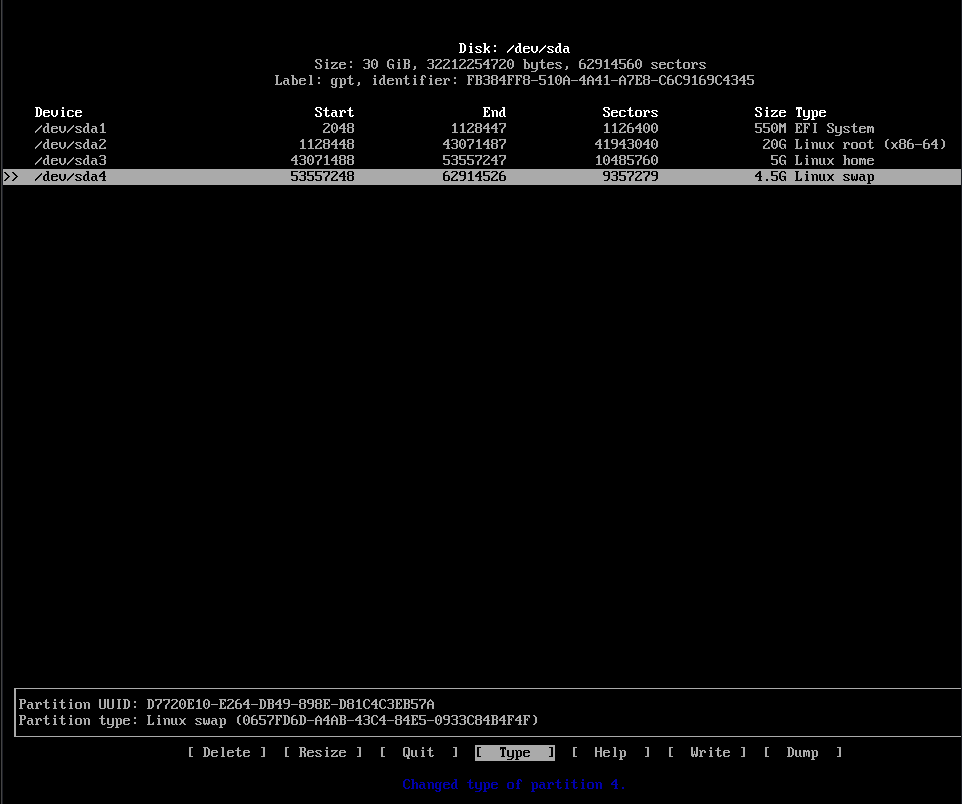
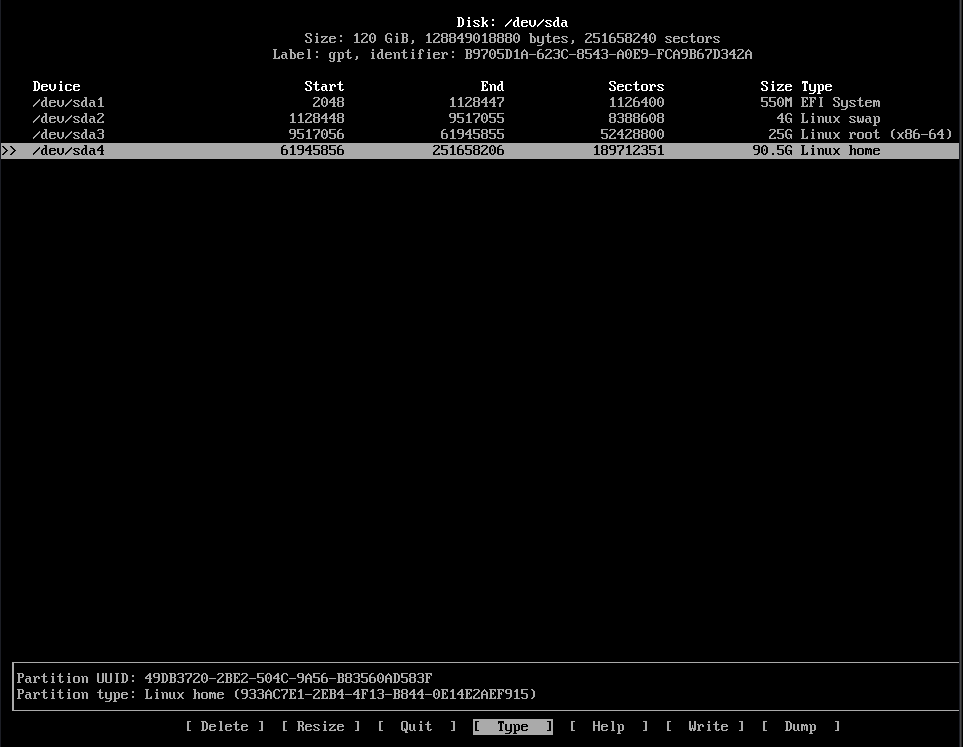
Arregladas las dimensiones de las particiones

diff --git a/README.md b/README.md
@@ -341,14 +341,13 @@
     <code>ext4</code>.<br>
     Acá vamos a instalar el Sistema Operativo y todos los programas.<br><br>
     Si estás instalando sobre una PC real necesita tener por lo menos unos 25Gb de espacio (aunque puede ser más, en mi caso he necesitado hasta 50Gb).<br><br>
-    En el caso de la máquina virtual le podemos dar un puñado de GB que total es de juguete.
   </p>
 
   <h4>Home</h4>
   <p>
     La partición HOME la vamos a montar en <code>/home</code> y la vamos a formatear como <code>ext4</code> también.<br>
     Acá van a estar todos los archivos personales (Por ejemplo todo lo que está en el escritorio, la carpeta de descargas, fotos, videos, configuraciones, etc)<br>
-    Vamos a asignarle todo el resto del espacio que queda excepto unos GB que vamos a usar para el Swap.
+    Vamos a asignarle todo el resto del espacio que nos sobre
   </p>
 
   <h4>Swap</h4>
@@ -384,11 +383,11 @@
     <br>
     Acá te podés mover con las flechas hacia arriba y abajo para seleccionar la partición, o izquierda y derecha para seleccionar una opción.
     <br>
-    Si nos paramos en <code>Free Space</code> y seleccionamos <code>[New]</code> nos preguntará el espacio que le queremos asignar y vamos poner lo que ya anotamos antes, en mi caso: <br><br>
+    Si nos paramos en <code>Free Space</code> y seleccionamos <code>[New]</code> nos preguntará el espacio que le queremos asignar y vamos poner lo que ya anotamos antes, en mi caso voy a instalarlo en un disco de 120GB y lo haré de la siguiente manera: <br><br>
     - 550MiB para EFI Partition<br>
-    - 20G para Root<br>
-    - 5G para Home<br>
-    - El resto para Swap<br>
+    - 4GB para Swap<br>
+    - 25G para Root<br>
+    - 90G para Home<br>
     <br><br>
     Prestá atención a cómo escribí las dimensiones. <br><br>
     Y con si seleccionamo <code>[Type]</code> vamos a poder seleccionar el tipo. <br><br>
@@ -396,7 +395,6 @@
     - Linux Root (x86-64) para Root<br>
     - Linux Home para Home<br>
     - Linux Swap para la Swap<br><br>
-    Lo normal sería que quede más espacio para Home que para Root pero como estoy instalando en una máquina virtual, no me importa.
     <br><br>
     Sacale foto a como quedó, lo vas a necesitar. A mí me quedó algo así:
   </p>
@@ -409,9 +407,9 @@
   <p>
     Entonces nos queda:<br><br>
     - /dev/sda1 para EFI Partition<br>
-    - /dev/sda2 para Root<br>
-    - /dev/sda3 para Home<br>
-    - /dev/sda4 para Swap<br><br><br>
+    - /dev/sda2 para Swap<br>
+    - /dev/sda3 para Root<br>
+    - /dev/sda4 para Home<br><br><br>
     Finalmente le damos a <code>[Write]</code>, confirmamos la operación y salimos con <code>[Quit]</code>.
   </p>
 
@@ -422,8 +420,8 @@
   </p>
 
   ```sh
-  mkfs.ext4 /dev/sda2
   mkfs.ext4 /dev/sda3
+  mkfs.ext4 /dev/sda4
   ```
 
   <p>
@@ -439,7 +437,7 @@
   </p>
 
   ```sh
-  mkswap /dev/sda4
+  mkswap /dev/sda2
   ```
 
   <p>
@@ -448,15 +446,15 @@
   </p>
 
   ```sh
-  mount /dev/sda2 /mnt # Montamos Root sobre /mnt
+  mount /dev/sda3 /mnt # Montamos Root sobre /mnt
 
   mkdir /mnt/home # Creamos la carpeta Home
-  mount /dev/sda3 /mnt/home # Montamos Home sobre /mnt/home
+  mount /dev/sda4 /mnt/home # Montamos Home sobre /mnt/home
 
   mkdir /mnt/boot # Creamos la carpeta Boot
-  mount /dev/sda1 /mnt/boot # Montamos EFI sobre /mnt/boot
+  mount /dev/sda1 /mnt/boot # Montamos la partición EFI sobre /mnt/boot
 
-  swapon /dev/sda4 # Activamos Swap
+  swapon /dev/sda2 # Activamos Swap
   ```
 
   <p>Y con esto ya tenemos creadas las particiones</p>
